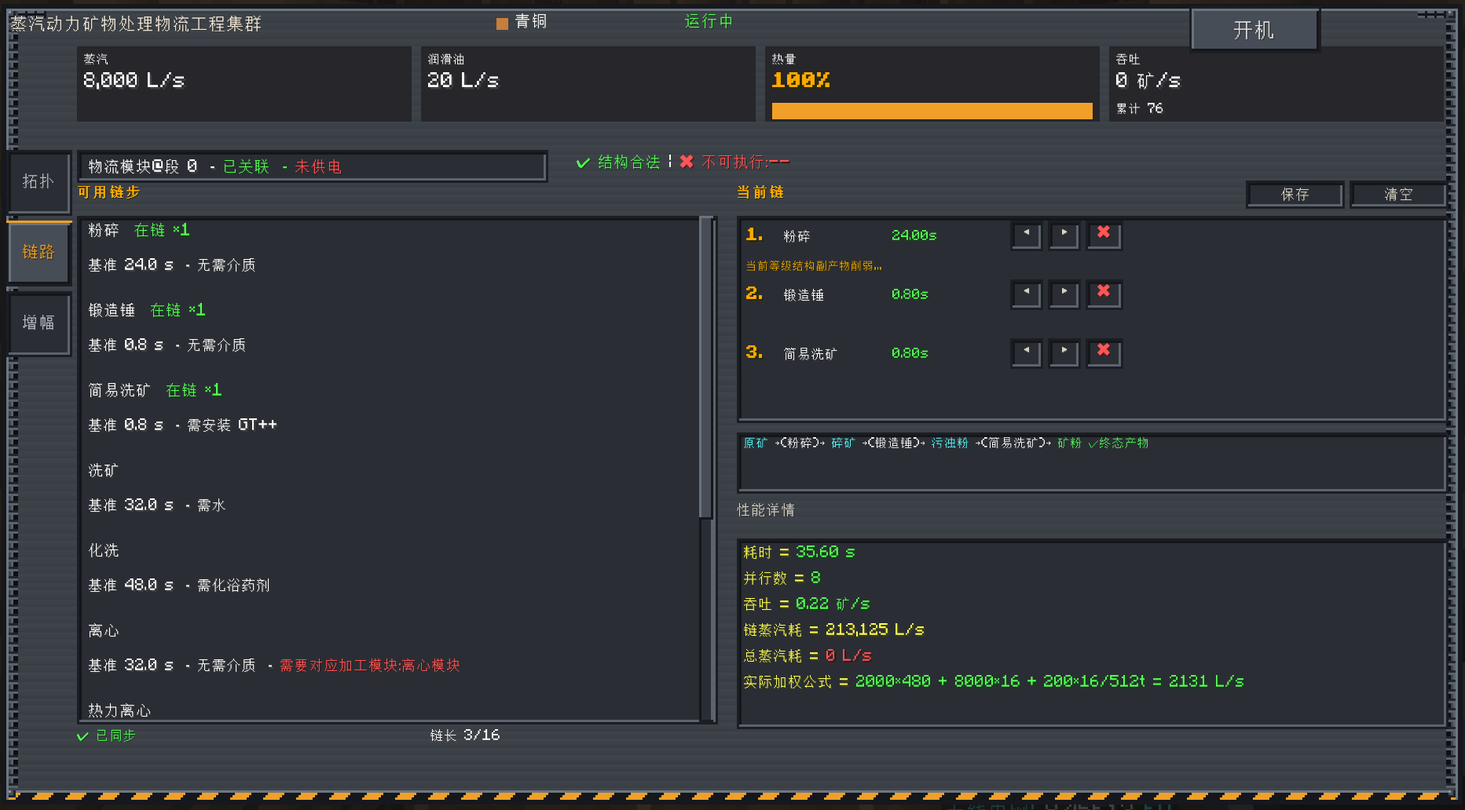
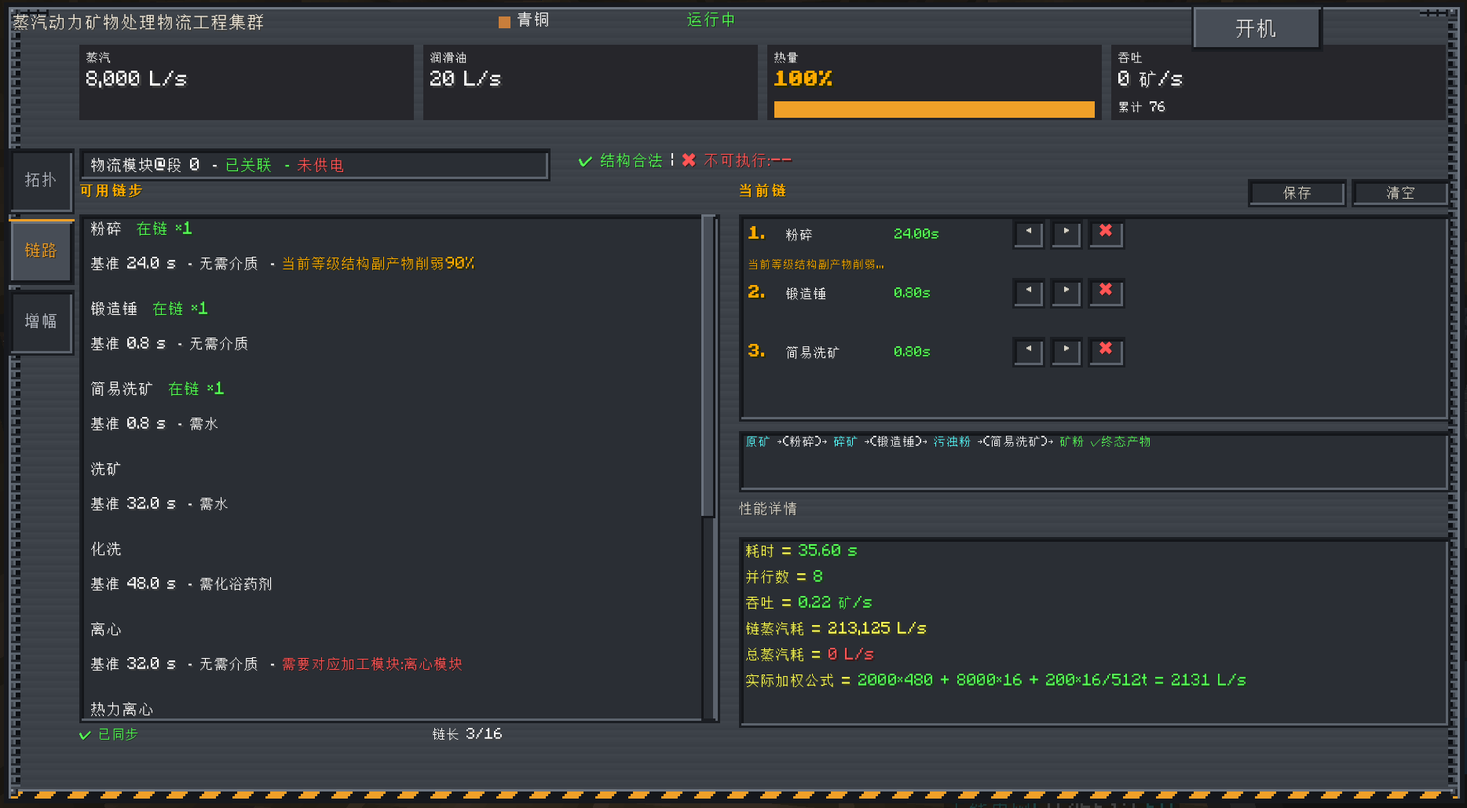
docs: README 同步已发布特性文档——枢纽 Alt+右击整组绑定、CRUSH 终端三页截图、缓存节点章节扩为缓存节点与奇点仓室 6+4、简易洗矿需水表述与副产物削弱词条

diff --git a/README.md b/README.md
@@ -102,7 +102,7 @@ Steel only, requires superheated steam (no speed bonus). Drives drilling and min
 |---|---|
 | 节点消耗 Node Cost | 5,000\~240,000 L/s 每节点（仅工作中；采矿 5 级：5,000 / 10,000 / 20,000 / 80,000 / 240,000）5,000\~240,000 L/s per node (only when working; miner 5 tiers: 5,000 / 10,000 / 20,000 / 80,000 / 240,000) |
 | 产出路由 Output Routing | 采矿节点→输出总线；钻井节点→输出仓 Miner node → Output Bus; Drilling node → Output Hatch |
-| 绑定 Binding | 需枢纽奇点芯片；手持节点右击绑定/解绑 Requires Hub Singularity Chip; right-click with node to bind/unbind |
+| 绑定 Binding | 需枢纽奇点芯片；手持节点右击绑定/解绑，Alt+右击绑定手持整组 Requires Hub Singularity Chip; right-click with node to bind/unbind, Alt+right-click binds the entire held stack |
 
 ***
 
@@ -114,9 +114,9 @@ The Hub-Node system is GTSR's core innovation, enabling cross-chunk and cross-di
 
 #### Binding Mechanism / 绑定机制
 
-Hold a node item and right-click a hub controller to bind. Singularity cost varies by node type (steam nodes: 0/1/8 by tier; universal fluid nodes: all 0; singularity steam (output) compartments: 1 each; miner/driller: 1). Steam/Water hubs support 3-state cycle: output mode → input mode → unbind. Singularity compartments are mode-locked: when already bound, right-click only unbinds (no mode flip), and the terminal/GUI cannot switch their direction either. Bound nodes re-register with their hub idempotently every 600 ticks (30 s; retried 20 ticks after failure), so if a hub is demolished and rebuilt in place, bindings recover automatically within 30 seconds; hubs without a chip still prune dangling binding records (only fluid transfer requires a chip). Breaking a bound node drops it with the binding retained.
+Hold a node item and right-click a hub controller to bind; Alt-right-click binds the entire held stack (singularity cost = per-node cost × stack size). Singularity cost varies by node type (steam nodes: 0/1/8 by tier; universal fluid nodes: all 0; singularity steam (output) compartments: 1 each; miner/driller: 1). Steam/Water hubs support 3-state cycle: output mode → input mode → unbind. Singularity compartments are mode-locked: when already bound, right-click only unbinds (no mode flip), and the terminal/GUI cannot switch their direction either. Bound nodes re-register with their hub idempotently every 600 ticks (30 s; retried 20 ticks after failure), so if a hub is demolished and rebuilt in place, bindings recover automatically within 30 seconds; hubs without a chip still prune dangling binding records (only fluid transfer requires a chip). Breaking a bound node drops it with the binding retained.
 
-手持节点物品右键枢纽控制器绑定。奇点消耗因节点类型而异（蒸汽节点按等级 0/1/8；通用流体节点全家 0；奇点蒸汽仓/输出仓各 1；采矿/钻井 1）。蒸汽枢纽阵列/蓄水枢纽阵列支持3状态循环：输出模式→输入模式→解绑。奇点仓模式锁定：已绑定时右键仅解绑（无模式翻转），终端/界面也无法切换其方向。绑定成功后节点每 600 tick（30 秒）幂等重登记（失败 20 tick 重试），拆除枢纽后原位重建最迟 30 秒自动恢复绑定；未装芯片的枢纽也会清理悬空绑定记录（仅流体传输需要芯片）。破坏已绑定节点，掉落物保留绑定。
+手持节点物品右键枢纽控制器绑定，Alt+右击绑定手持整组（奇点消耗=单节点成本×堆叠数量）。奇点消耗因节点类型而异（蒸汽节点按等级 0/1/8；通用流体节点全家 0；奇点蒸汽仓/输出仓各 1；采矿/钻井 1）。蒸汽枢纽阵列/蓄水枢纽阵列支持3状态循环：输出模式→输入模式→解绑。奇点仓模式锁定：已绑定时右键仅解绑（无模式翻转），终端/界面也无法切换其方向。绑定成功后节点每 600 tick（30 秒）幂等重登记（失败 20 tick 重试），拆除枢纽后原位重建最迟 30 秒自动恢复绑定；未装芯片的枢纽也会清理悬空绑定记录（仅流体传输需要芯片）。破坏已绑定节点，掉落物保留绑定。
 
 > 📷 图片待配：节点绑定枢纽的操作示意图或流程截图
 
@@ -263,7 +263,7 @@ Reverse-injects steam energy underground to increase fluid reserves, solving lon
 
 ### Mineral Logistics Cluster / 蒸汽动力矿物处理物流工程集群 (1)
 
-> 📷 图片待配：蒸汽动力矿物处理物流工程集群全景图 / Cluster overview screenshot
+<p align="center"><img src="README/CRUSH-Module.png" width="240" alt="矿物处理集群模块总览 / MLC Module Overview"> <img src="README/CRUSH-UI1.png" width="240" alt="集群终端拓扑页 / Cluster Terminal Topology Page"> <img src="README/CRUSH-UI2.png" width="240" alt="集群终端链路页 / Cluster Terminal Chain Page"> <img src="README/CRUSH-UI3.png" width="240" alt="集群终端增幅页 / Cluster Terminal Amplifier Page"><br><em>矿物处理集群：模块总览（主控+7 加工模块+5 增幅模块+物流模块） / Mineral Logistics Cluster: module overview (controller + 7 processing + 5 amplifier + 1 logistics module)</em><br><em>集群终端三页：拓扑（蒸汽/润滑油/热量/吞吐总览+分段模块矩阵+状态图例）、链路（链步+链编辑+链式总公式+性能详情）、增幅（增幅模块等级/特殊流体供给/六类增益叠加） / Cluster terminal pages: Topology (steam/lubricant/heat/throughput overview, segmented module matrix, status legend), Chain editor (available links, chain editing, total chain formula, performance details), Amplifier (amplifier tiers, special fluid supply, six-fold boost stacking)</em></p>
 
 **蒸汽动力矿物处理物流工程集群（开发中，逐步实装）/ Mineral Logistics Cluster (MLC) — in development, rolling out incrementally**
 
@@ -271,9 +271,9 @@ Reverse-injects steam energy underground to increase fluid reserves, solving lon
 
 A steam-driven multiblock ore-processing cluster: logistics modules orchestrate a crush→hammer→simple-wash→ore-wash→chem-bath→centrifuge→thermal-centrifuge→sift→magnetize→smelt chain with automatic throughput — driven by steam and lubricant (the thermal-centrifuge and magnetic-separation links need continuous energy-hatch power).
 
-**模块清单 / Module List**：十种链步——粉碎/锻造/简易洗矿/洗矿/化学浸浴/离心/热离心/筛分/磁选/熔炼——由七类工作单元执行：粉碎机兼锻造、洗矿机兼简易洗矿/化学浸浴；另配物流单元（链编排与并行取料），可选装并行/速度/主产物/副产物/节汽五类增幅模块。集群共 14 个多方块机器：总控 1 + 工作单元 7 + 增幅 5 + 物流 1。锻造与简易洗矿是链步骤而非独立机器（各基础耗时 16 tick；简易洗矿依赖 GT++ 配方图，GT++ 缺席时该链步自动不可用）。
+**模块清单 / Module List**：十种链步——粉碎/锻造/简易洗矿/洗矿/化学浸浴/离心/热离心/筛分/磁选/熔炼——由七类工作单元执行：粉碎机兼锻造、洗矿机兼简易洗矿/化学浸浴；另配物流单元（链编排与并行取料），可选装并行/速度/主产物/副产物/节汽五类增幅模块。集群共 14 个多方块机器：总控 1 + 工作单元 7 + 增幅 5 + 物流 1。锻造与简易洗矿是链步骤而非独立机器（各基础耗时 16 tick；简易洗矿需水，不依赖 GT++——GT++ 缺席时配方透传，该链步仍可用）。
 
-**Module list**: the ten chain steps — crush / hammer / simple wash / ore wash / chemical bath / centrifuge / thermal centrifuge / sifting / magnetic separation / smelting — are executed by seven working-unit classes: the crusher also handles hammering, the ore washer also simple washing and chemical bathing; plus a logistics unit (chain orchestration and parallel fetching) and five optional amplifier modules (parallel / speed / primary / secondary / steam saver). The cluster totals 14 multiblock machines: 1 controller + 7 working units + 5 amplifiers + 1 logistics unit. Hammer and simple wash are chain steps, not standalone machines (16 base ticks each; simple wash relies on the GT++ recipe map and is auto-disabled when GT++ is absent).
+**Module list**: the ten chain steps — crush / hammer / simple wash / ore wash / chemical bath / centrifuge / thermal centrifuge / sifting / magnetic separation / smelting — are executed by seven working-unit classes: the crusher also handles hammering, the ore washer also simple washing and chemical bathing; plus a logistics unit (chain orchestration and parallel fetching) and five optional amplifier modules (parallel / speed / primary / secondary / steam saver). The cluster totals 14 multiblock machines: 1 controller + 7 working units + 5 amplifiers + 1 logistics unit. Hammer and simple wash are chain steps, not standalone machines (16 base ticks each; simple wash needs water and does not depend on GT++ — recipes pass through when GT++ is absent, so the link stays available).
 
 **结构 / Structure**：主段 15×20×29，背面最多串接 9 个 15×8×29 延伸段（总段数 ≤10）；四族结构方块 tier0-3 = 青铜/钢/钛/钨钢；每段提供 4 加工（F）+ 4 增幅（H）+ 1 物流（G）模块挂点。
 
@@ -294,6 +294,7 @@ A steam-driven multiblock ore-processing cluster: logistics modules orchestrate 
 | 物流封漏 Sealed Logistics I/O | 批处理的一切取料/产出/批流体均经物流单元自身的总线与仓室，执行器不触碰总控库存（总控输入仓仅用于蒸汽/润滑结算）All batch fetching, outputs and batch fluids pass through the logistics unit's own buses and hatches; the executor never touches the controller inventory (controller hatches serve the steam/lubricant economy only) |
 | 增幅直连原子预检 Atomic Amplifier Draw | 增幅模块无内部流体槽，锁定流体直连其 H 输入仓按秒原子预检：足额才整笔实扣，不足零扣且当秒无增益无惩罚Amplifiers carry no internal tank; their locked fluid is drawn straight from their H input hatches under a per-second atomic precheck — the full amount is debited only when sufficient, otherwise zero deduction with no boost and no penalty that second |
 | 真实状态词条 Real GUI Entries | 总控与模块 GUI 使用真实状态词条，不显示恒定 NO_RECIPE 结果词条与配方信息区Controller and module GUIs show real status entries — no constant NO_RECIPE result entry and no recipe info area |
+| CRUSH 副产物削弱 Byproduct Nerf | 粉碎链副产物按集群结构档位三档削弱：tier0 ×0.1、tier1（钢级）×0.5、tier≥2 ×1.0 无削弱；终端链路页橙字常显当前削弱比例，tier≥2 以灰字显示「无削弱」Crusher byproducts are nerfed in three tiers by cluster structure tier: tier 0 ×0.1, tier 1 (steel) ×0.5, tier ≥2 ×1.0 with no nerf; the terminal chain page always shows the current multiplier in orange, with a gray "no nerf" label at tier ≥2 |
 
 ### Enhanced Processing Machines / 强化加工机器 (9)
 
@@ -525,9 +526,9 @@ Dual mode cycled by screwdriver: Steam Compression / Steam Decompression; each s
 
 ## Single-Block Nodes / 单方块节点 (8)
 
-### Cache Nodes / 缓存节点 (6)
+### Cache Nodes & Singularity Compartments / 缓存节点与奇点仓室 (6+4)
 
-<p align="center"><img src="README/MTECacheNodes.png" width="360" alt="缓存节点 / Cache Nodes"><br><em>缓存节点 / Cache Nodes</em></p>
+<p align="center"><img src="README/MTECacheNodesAndSingularityCompartments.png" width="360" alt="缓存节点与奇点仓室 / Cache Nodes & Singularity Compartments"><br><em>缓存节点与奇点仓室 / Cache Nodes & Singularity Compartments</em></p>
 
 Digital tank-based nodes that bind to hubs for cross-chunk/dimensional fluid transfer. Support fluid lock, auto-output, void excess, terminal-adjustable hub transfer rate (six cache nodes + four singularity compartments) and a 9-step capacity limit tier (see below).
 
@@ -550,9 +551,9 @@ Cache nodes and the two receiving compartments (Singularity Steam Compartment, S
 
 **节点外观 / Node Appearance**
 
-缓存节点顶面为三层渲染：基材 + 流体窗 + 状态框，未绑定时也显示家族默认流体窗（状态框为灰色框架）。基材随结构成型档位（青铜顶/钢顶/超压机壳），状态框颜色语义：红橙=从枢纽接受、紫蓝=向枢纽输送、灰=未绑定/控制器，边框为 11 帧中心透明动画材质。奇点仓正面为三层（底材 + 流体窗 + 语义固定框架：接收恒红橙/发送恒紫蓝）、顶面仅底材单层；底材跟随所在枢纽结构机壳（未成型时回退 LV 机壳）。两枢纽控制器正面为 [等级基材 + 内缩流体窗 + 专用框架] 三层（罐空回退默认流体：蒸汽阵列→蒸汽、蓄水阵列→水）。流体窗实时显示罐内流体（与 NEI 图标同源外观）；世界内外观在状态变化时由服务端发包即时切换；物品形态为 GT 原生 3D 渲染。
+缓存节点顶面为三层渲染：基材 + 流体窗 + 状态框，未绑定时也显示家族默认流体窗（状态框为灰色框架）。基材随结构成型档位（青铜顶/钢顶/超压机壳），状态框颜色语义：红橙=从枢纽接受、紫蓝=向枢纽输送、灰=未绑定/控制器，边框为 11 帧中心透明动画材质。缓存节点 GUI 内的流体槽由 MUI2 FluidSlot 框架渲染（图标/量/tooltip），非自绘。四个奇点仓无 GUI（右击被拦截），当前流体经双通道显示：其一是世界侧正面流体窗——三层 [基材, 流体窗, 框架] 中的 GTSRFluidWindowTexture 层（语义固定框架：接收恒红橙/发送恒紫蓝），绘制流体 still 贴图（与 NEI 同源解析），客户端经 description packet 同步罐内流体名；其二是枢纽终端状态页文本行。奇点仓顶面仅底材单层，底材跟随所在枢纽结构机壳（未成型时回退 LV 机壳）。两枢纽控制器正面为 [等级基材 + 内缩流体窗 + 专用框架] 三层（罐空回退默认流体：蒸汽阵列→蒸汽、蓄水阵列→水）。流体窗实时显示罐内流体（与 NEI 图标同源外观）；世界内外观在状态变化时由服务端发包即时切换；物品形态为 GT 原生 3D 渲染。
 
-Cache nodes render a 3-layer top face: base texture + fluid window + status frame, and the family-default fluid window is shown even when unbound (status frame gray). The base texture follows the formed structure tier (bronze/steel top, overpressure casing); status frame colors: red-orange = receiving from hub, purple-blue = sending to hub, gray = unbound/controller — the frame is an 11-frame animated texture with a transparent center. Singularity compartments render a 3-layer front face (base + fluid window + semantically fixed frame: receive always red-orange / send always purple-blue) and a single-layer top face (base only); their base texture follows the casing of the hub structure (falling back to the LV casing when unformed). Both hub controllers render a 3-layer front face [tier base + inset fluid window + dedicated frame] (empty tank falls back to the default fluid: Steam Hub → steam, Water Hub → water). The fluid window shows the stored fluid in real time (same appearance source as the NEI icon); the in-world look switches immediately via a server packet on state change; item form uses GT's native 3D rendering.
+Cache nodes render a 3-layer top face: base texture + fluid window + status frame, and the family-default fluid window is shown even when unbound (status frame gray). The base texture follows the formed structure tier (bronze/steel top, overpressure casing); status frame colors: red-orange = receiving from hub, purple-blue = sending to hub, gray = unbound/controller — the frame is an 11-frame animated texture with a transparent center. The fluid slot inside a cache node's GUI is rendered by the MUI2 FluidSlot framework (icon/amount/tooltip), not custom-drawn. The four singularity compartments have no GUI (right-click is intercepted), so their current fluid is shown through two channels: first, the world-side front fluid window — the GTSRFluidWindowTexture layer within the 3-layer [base, fluid window, frame] stack (semantically fixed frame: receive always red-orange / send always purple-blue) draws the fluid's still texture (parsed the same way as NEI), with the stored fluid name synced to the client via a description packet; second, a text line on the hub terminal status page. Compartment top faces are a single base layer only, and the base texture follows the casing of the hub structure (falling back to the LV casing when unformed). Both hub controllers render a 3-layer front face [tier base + inset fluid window + dedicated frame] (empty tank falls back to the default fluid: Steam Hub → steam, Water Hub → water). The fluid window shows the stored fluid in real time (same appearance source as the NEI icon); the in-world look switches immediately via a server packet on state change; item form uses GT's native 3D rendering.
 
 **蒸汽缓存节点 / Steam Cache Node**
 
@@ -614,6 +615,23 @@ Accepts any fluid, 32M L capacity at 2,000,000 L/s; binding requires a tier 3 Wa
 | 接受流体 Accepted Fluid | 任意流体 Any fluid |
 | 绑定枢纽 Binds To | 蓄水枢纽阵列（需 3 级 + 强化芯片）Water Hub Array (tier 3 + Reinforced Chip) |
 
+**奇点仓四件套 / Singularity Compartments (4)**
+
+模式锁定的枢纽缓存仓（仓室基类：分别继承耐压蒸汽仓/耐压蒸汽输出仓/枢纽输入仓/枢纽输出仓近亲，可加入对应枢纽多方块结构）：奇点通用蒸汽仓与奇点通用蒸汽输出仓绑蒸汽枢纽阵列（每仓消耗 1 蒸汽纠缠奇点、蒸汽全家族兼容）；奇点输入仓与奇点输出仓绑蓄水枢纽阵列（0 消耗、任意流体）。仓=从枢纽接受（接收），输出仓=向枢纽输送（发送），方向恒定锁定：终端/界面/右键均无法切换，已绑定时右键仅解绑。仓无 GUI；管道无法向仓注入流体（canTankBeFilled/acceptsFluid 阻断，仅枢纽链路交互）；枢纽交互有效速率=固定基准×传输速率档（终端右击循环，见传输机制一节）；两个接收仓支持容量上限档（终端潜行右击或终端 GUI 按钮，见缓存节点一节）。破坏掉落保留绑定。
+
+Mode-locked hub cache compartments (hatch-based: each extends its pressure-steam/hub hatch counterpart and can join the corresponding hub multiblock structure): the Singularity Steam Compartment and Singularity Steam Output Compartment bind to the Steam Hub Array (1 Steam Entangled Singularity each; full steam family); the Singularity Fluid Input/Output Compartments bind to the Water Hub Array (0 cost, any fluid). Compartment = receive from hub, Output Compartment = send to hub — the direction is permanently locked: terminal/GUI/right-click cannot switch it, and right-clicking a bound compartment only unbinds. Compartments have no GUI; pipes cannot inject into them (canTankBeFilled/acceptsFluid blocked — hub link only); their effective hub interaction rate = fixed base × transfer rate tier (cycled by a terminal right-click, see Transfer Mechanism); the two receiving compartments support the capacity limit tier (terminal sneak+right-click or the terminal GUI button, see Cache Nodes). Breaking drops retain the binding.
+
+| 仓 Compartment | 绑定枢纽 Bound Hub | 容量 Capacity | 基准交互速率 Base Hub Rate | 流体范围 Fluid Range | 方向（锁定）Direction (locked) | 消耗 Cost |
+|---|---|---|---|---|---|---|
+| 奇点通用蒸汽仓 Singularity Steam Compartment | 蒸汽枢纽 Steam Hub | 8M L | 8,000,000 L/s | 蒸汽全家族 Full steam family | 从枢纽接受 Receive | 1 奇点 1 singularity |
+| 奇点通用蒸汽输出仓 Singularity Steam Output Compartment | 蒸汽枢纽 Steam Hub | 8M L | 8,000,000 L/s | 蒸汽全家族 Full steam family | 向枢纽输送 Send | 1 奇点 1 singularity |
+| 奇点输入仓 Singularity Fluid Input Compartment | 蓄水枢纽阵列 Water Hub Array | 256K L | 256,000 L/s | 任意流体 Any fluid | 从枢纽接受 Receive | 0 |
+| 奇点输出仓 Singularity Fluid Output Compartment | 蓄水枢纽阵列 Water Hub Array | 256K L | 256,000 L/s | 任意流体 Any fluid | 向枢纽输送 Send | 0 |
+
+正面为 [底材, 流体窗, 语义固定框架（接收/发送）] 三层，顶面仅底材单层；底材跟随所在枢纽结构机壳，未成型时回退 LV 机壳。正面流体窗实时显示罐内流体，罐空回退该仓默认流体（蒸汽仓→蒸汽、流体仓→水）。
+
+The front face renders [base, fluid window, semantically fixed frame (receive/send)] in 3 layers, and the top face is a single base layer only; the base texture follows the casing of the hub structure (LV casing fallback when unformed). The front fluid window shows the stored fluid in real time, falling back to the compartment's default fluid when empty (steam pair → steam, fluid pair → water).
+
 ### Remote Worker Nodes / 远程工作节点 (2)
 
 <p align="center"><img src="README/MTERemoteWorkerNodes.png" width="320" alt="远程工作节点 / Remote Worker Nodes"><br><em>远程工作节点 / Remote Worker Nodes</em></p>
@@ -660,7 +678,7 @@ Nodes that perform remote operations driven by the Singularity Drilling Hub. The
 
 ***
 
-## Hatches / 仓室 (15 类仓室 + 4 奇点仓 + 3 种存储单元)
+## Hatches / 仓室 (15 类仓室 + 3 种存储单元)
 
 <p align="center"><img src="README/MTEAllHatches.png" width="380" alt="全部仓室 / All Hatches"><br><em>全部仓室 / All Hatches</em></p>
 
@@ -783,24 +801,7 @@ Installable on any multiblock machine; outputs a redstone signal based on a sele
 | 适用机器 Used By | 任意多方块机器 Any multiblock machine |
 | 输出 Output | 按词条阈值输出红石信号 Redstone signal by entry threshold |
 
-**奇点仓四件套 / Singularity Compartments (4)**
-
-模式锁定的枢纽缓存仓（仓室基类：分别继承耐压蒸汽仓/耐压蒸汽输出仓/枢纽输入仓/枢纽输出仓近亲，可加入对应枢纽多方块结构）：奇点通用蒸汽仓与奇点通用蒸汽输出仓绑蒸汽枢纽阵列（每仓消耗 1 蒸汽纠缠奇点、蒸汽全家族兼容）；奇点输入仓与奇点输出仓绑蓄水枢纽阵列（0 消耗、任意流体）。仓=从枢纽接受（接收），输出仓=向枢纽输送（发送），方向恒定锁定：终端/界面/右键均无法切换，已绑定时右键仅解绑。仓无 GUI；管道无法向仓注入流体（canTankBeFilled/acceptsFluid 阻断，仅枢纽链路交互）；枢纽交互有效速率=固定基准×传输速率档（终端右击循环，见传输机制一节）；两个接收仓支持容量上限档（终端潜行右击或终端 GUI 按钮，见缓存节点一节）。破坏掉落保留绑定。
-
-Mode-locked hub cache compartments (hatch-based: each extends its pressure-steam/hub hatch counterpart and can join the corresponding hub multiblock structure): the Singularity Steam Compartment and Singularity Steam Output Compartment bind to the Steam Hub Array (1 Steam Entangled Singularity each; full steam family); the Singularity Fluid Input/Output Compartments bind to the Water Hub Array (0 cost, any fluid). Compartment = receive from hub, Output Compartment = send to hub — the direction is permanently locked: terminal/GUI/right-click cannot switch it, and right-clicking a bound compartment only unbinds. Compartments have no GUI; pipes cannot inject into them (canTankBeFilled/acceptsFluid blocked — hub link only); their effective hub interaction rate = fixed base × transfer rate tier (cycled by a terminal right-click, see Transfer Mechanism); the two receiving compartments support the capacity limit tier (terminal sneak+right-click or the terminal GUI button, see Cache Nodes). Breaking drops retain the binding.
-
-| 仓 Compartment | 绑定枢纽 Bound Hub | 容量 Capacity | 基准交互速率 Base Hub Rate | 流体范围 Fluid Range | 方向（锁定）Direction (locked) | 消耗 Cost |
-|---|---|---|---|---|---|---|
-| 奇点通用蒸汽仓 Singularity Steam Compartment | 蒸汽枢纽 Steam Hub | 8M L | 8,000,000 L/s | 蒸汽全家族 Full steam family | 从枢纽接受 Receive | 1 奇点 1 singularity |
-| 奇点通用蒸汽输出仓 Singularity Steam Output Compartment | 蒸汽枢纽 Steam Hub | 8M L | 8,000,000 L/s | 蒸汽全家族 Full steam family | 向枢纽输送 Send | 1 奇点 1 singularity |
-| 奇点输入仓 Singularity Fluid Input Compartment | 蓄水枢纽阵列 Water Hub Array | 256K L | 256,000 L/s | 任意流体 Any fluid | 从枢纽接受 Receive | 0 |
-| 奇点输出仓 Singularity Fluid Output Compartment | 蓄水枢纽阵列 Water Hub Array | 256K L | 256,000 L/s | 任意流体 Any fluid | 向枢纽输送 Send | 0 |
-
-> 📷 图片待配：奇点仓四件套合图
-
-正面为 [底材, 流体窗, 语义固定框架（接收/发送）] 三层，顶面仅底材单层；底材跟随所在枢纽结构机壳，未成型时回退 LV 机壳。正面流体窗实时显示罐内流体，罐空回退该仓默认流体（蒸汽仓→蒸汽、流体仓→水）。
-
-The front face renders [base, fluid window, semantically fixed frame (receive/send)] in 3 layers, and the top face is a single base layer only; the base texture follows the casing of the hub structure (LV casing fallback when unformed). The front fluid window shows the stored fluid in real time, falling back to the compartment's default fluid when empty (steam pair → steam, fluid pair → water).
+> 奇点仓四件套已并入「缓存节点与奇点仓室」一节（见单方块节点章节）/ The Singularity Compartments (4) block has moved to "Cache Nodes & Singularity Compartments" (see Single-Block Nodes).
 
 **枢纽存储单元（3种）/ Hub Storage Units (3)**
 
